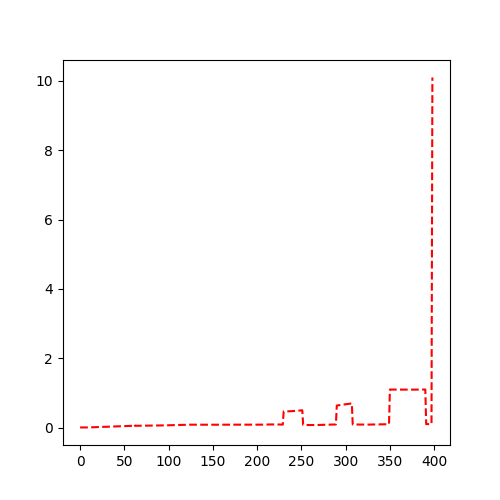
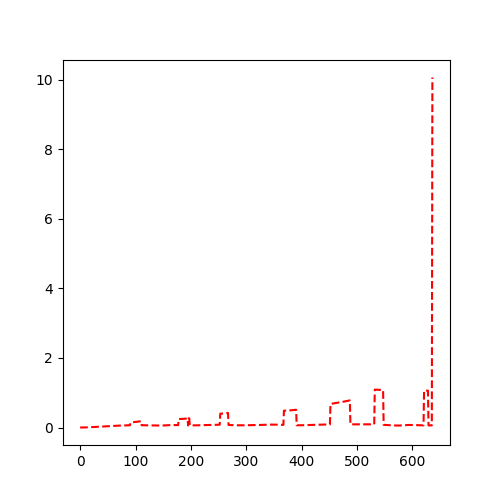
commit exp 13 code modified inertia ob

diff --git a/learning/explore.py b/learning/explore.py
@@ -45,38 +45,28 @@ class Explore:
         elif task_version == 2:
             task = GoalRewardNoObstacle
         self.logdir = logdir
-        self.env = sb3.common.vec_env.vec_normalize.VecNormalize(
-            sb3.common.vec_env.vec_transpose.VecTransposeImage(
-                sb3.common.vec_env.dummy_vec_env.DummyVecEnv([
-                    lambda : sb3.common.monitor.Monitor(env_class(
-                        PointEnv,
-                        task,
-                        max_episode_size,
-                        policy_version,
-                        n_steps
-                    ))
-                ])
-            ),
-            norm_obs = True,
-            norm_reward = False,
-            clip_obs = 1.0,
+        self.env = sb3.common.vec_env.vec_transpose.VecTransposeImage(
+            sb3.common.vec_env.dummy_vec_env.DummyVecEnv([
+                lambda : sb3.common.monitor.Monitor(env_class(
+                    PointEnv,
+                    task,
+                    max_episode_size,
+                    policy_version,
+                    n_steps
+                ))
+            ])
         )
 
-        self.eval_env = sb3.common.vec_env.vec_normalize.VecNormalize(
-            sb3.common.vec_env.vec_transpose.VecTransposeImage(
-                sb3.common.vec_env.dummy_vec_env.DummyVecEnv([
-                    lambda : sb3.common.monitor.Monitor(env_class(
-                        PointEnv,
-                        CustomGoalReward4Rooms,
-                        max_episode_size,
-                        policy_version,
-                        n_steps
-                    ))
-                ])
-            ),
-            norm_obs = True,
-            norm_reward = False,
-            clip_obs = 1.0,
+        self.eval_env = sb3.common.vec_env.vec_transpose.VecTransposeImage(
+            sb3.common.vec_env.dummy_vec_env.DummyVecEnv([
+                lambda : sb3.common.monitor.Monitor(env_class(
+                    PointEnv,
+                    CustomGoalReward4Rooms,
+                    max_episode_size,
+                    policy_version,
+                    n_steps
+                ))
+            ])
         )
         
         self.__set_rl_callback()

diff --git a/simulations/maze_env.py b/simulations/maze_env.py
@@ -444,9 +444,10 @@ class MazeEnv(gym.Env):
             return obs
         elif self.policy_version == 5:
             inertia = np.concatenate([
-                self.data.qacc[:2],
-                self.data.qvel[-1:]
-            ])
+                self.data.qpos,
+                self.data.qvel,
+                self.data.qacc
+            ], -1)
             history_action = np.concatenate(self.actions, -1)
             obs = {
                 'observation' : img.copy(),
@@ -567,7 +568,6 @@ class MazeEnv(gym.Env):
             delta_yaw / self.dt
         ])
         info = {}
-        prev_pos = self.wrapped_env.get_xy()
         inner_next_obs, inner_reward, _, info = self.wrapped_env.step(action)
         next_pos = self.wrapped_env.get_xy()
         collision_penalty = 0.0

diff --git a/test_env.py b/test_env.py
@@ -40,6 +40,7 @@ ax.set_ylabel('reward')
 total_reward = 0.0
 while not done:
     ob, reward, done, info = env.step(ob['sampled_action'])
+    print(env.wrapped_env.sim.data.qvel[-1])
     if reward != 0.0:
         count += 1
     if info['collision_penalty'] != 0:
